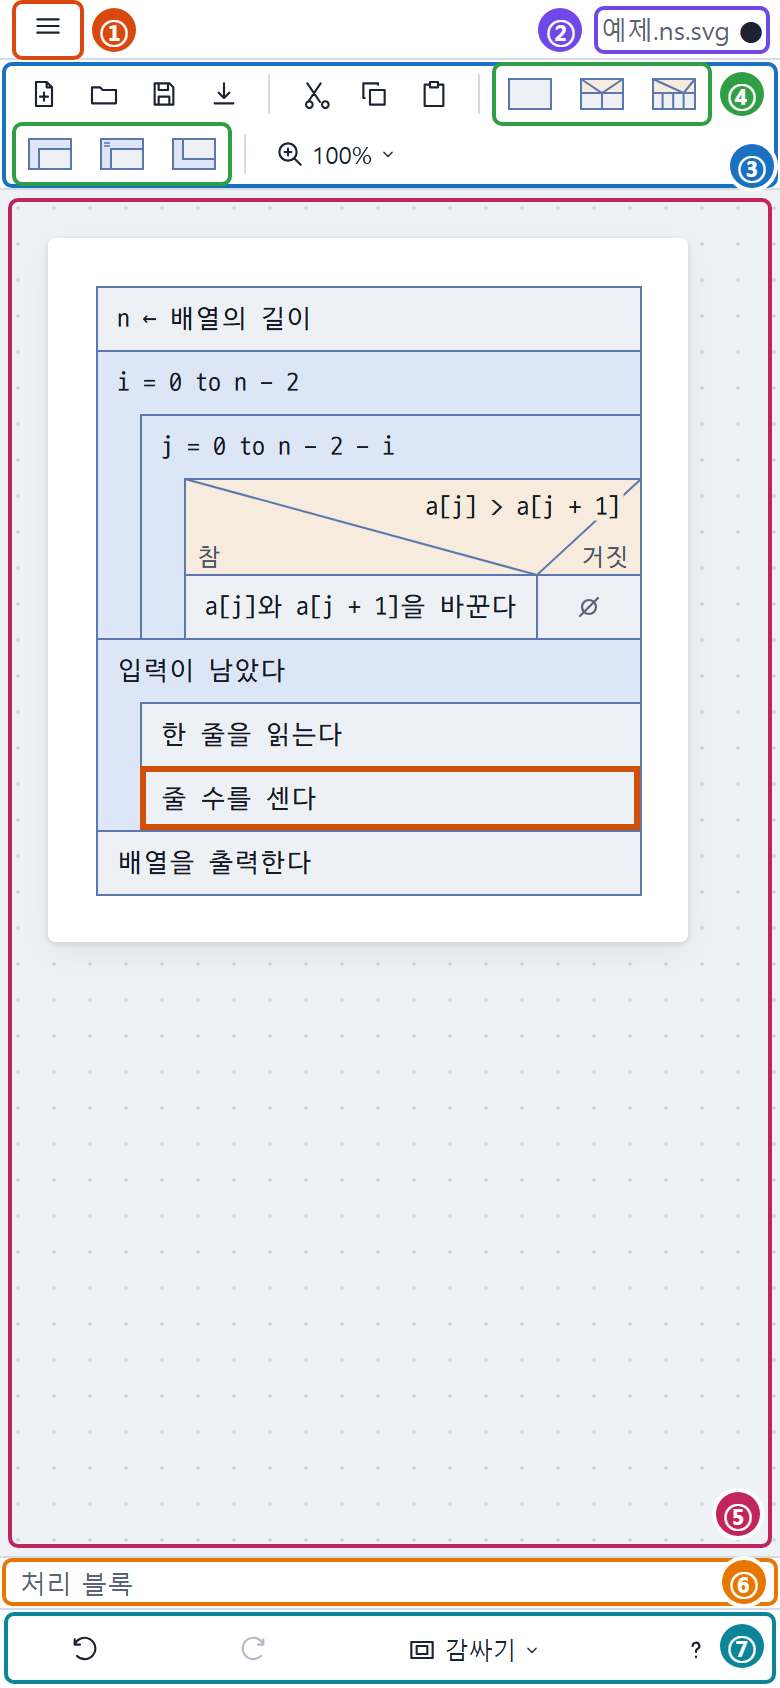
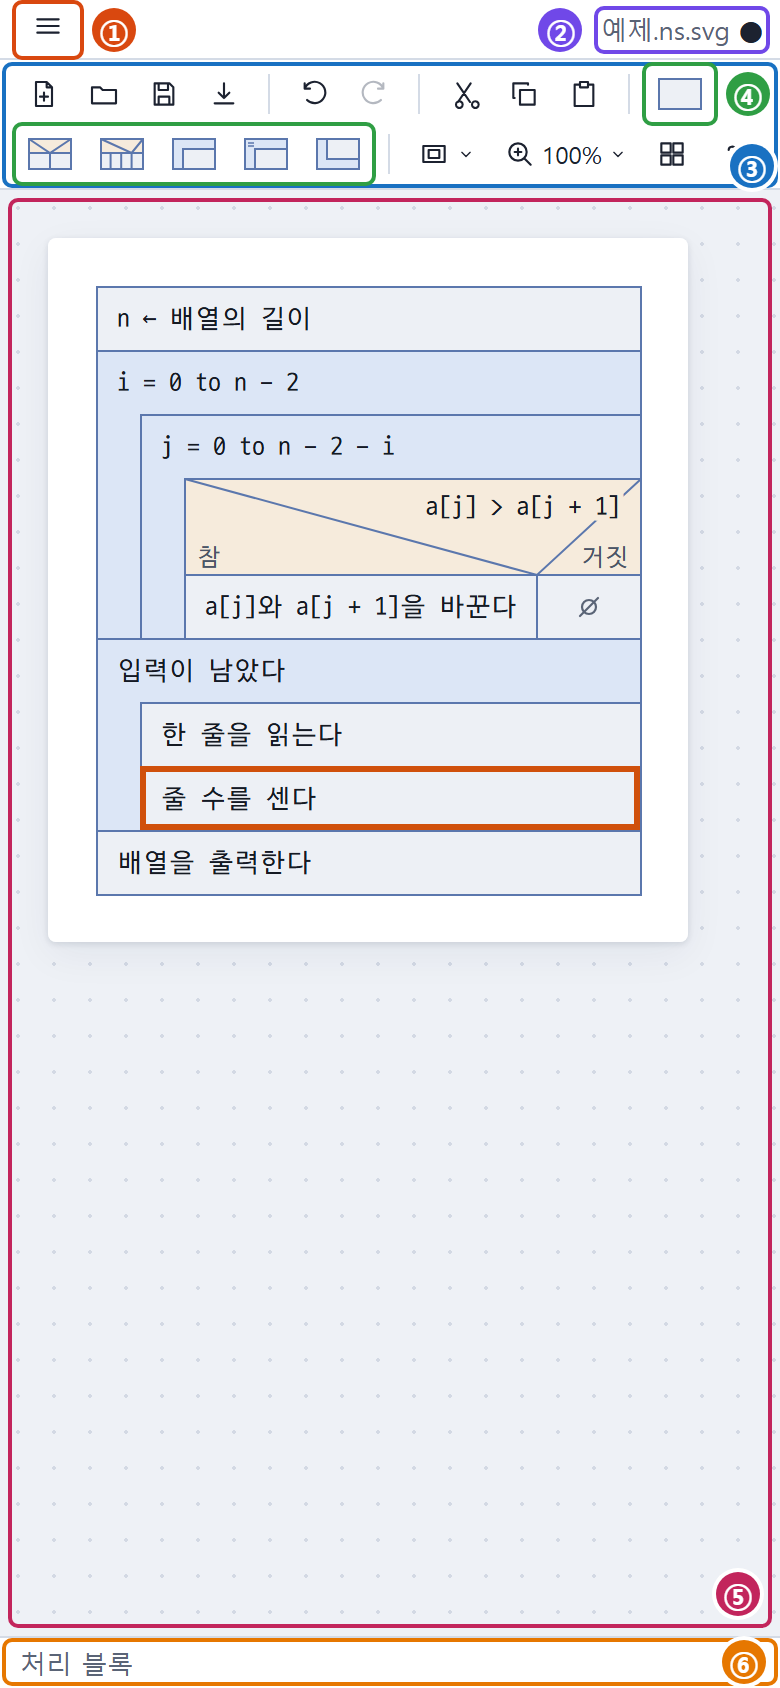
editor: 좁은 화면의 아래 줄을 없애고 되돌리기 · 다시 · 감싸기 · 도움말을 툴바에(UX MB2), 화면 배치의 휴대폰 그림을 다시 찍음

diff --git a/src/packages/editor/src/ui/toolbar.tsx b/src/packages/editor/src/ui/toolbar.tsx
@@ -1,6 +1,6 @@
 // The toolbar (03-editor 5.2, 06-web 7): the registry's toolbar commands in their groups, the six
-// block icons, then "감싸기 ▾", "확대 ▾" and "예제" (opens the examples modal). On narrow screens undo · redo · wrap move to the
-// bottom bar (UX MB1).
+// block icons, then "감싸기 ▾", "확대 ▾" and "예제" (opens the examples modal). Narrow screens show
+// the same buttons on more rows, with icons only, and a help button at the end (UX MB2).
 
 import type { PointerEvent as ReactPointerEvent, ReactElement, RefObject } from 'react';
 import { useEffect, useRef, useState } from 'react';
@@ -14,9 +14,6 @@ import type { ToolbarBlockKind } from './engine-api';
 import { BlockIcon, hasStrokeIcon, StrokeIcon } from './icons';
 import { displayKey, menuKey } from './keys';
 import { useChrome, useChromeState, useCommands } from './use-engine';
-
-/** Icons that go to the bottom bar on narrow screens (06-web 7 "좁은 화면"). */
-const bottomBarIcons: ReadonlySet<string> = new Set(['edit.undo', 'edit.redo']);
 
 /** How far the pointer must move before a press on a block icon becomes a drag (03-editor 3.2). */
 const dragThreshold = 4;
@@ -225,7 +222,7 @@ function ExamplesButton({
     <button
       type="button"
       // On narrow screens too, with the icon only (BUG-04, 05-screen-layout).
-      className="ans-tool ans-examples-tool"
+      className="ans-tool ans-icon-on-narrow"
       aria-label={label}
       aria-haspopup="dialog"
       title={command.title}
@@ -251,15 +248,15 @@ export function Toolbar(): ReactElement {
     )
     .sort(byPlace);
   const zoom = zoomCommandIds.flatMap((id) => commands.filter((command) => command.id === id));
+  // Narrow screens have no Help menu in sight, so the shortcut list gets a button (UX MB2).
+  const help = commands.find((command) => command.id === uiCommandIds.shortcuts);
 
   return (
     <div className="ans-toolbar" role="toolbar" aria-label={text('toolbar.label')}>
       {groupRuns(placed).map((run, index) => {
-        const isBottomBarGroup = run.every(({ icon }) => bottomBarIcons.has(icon));
-        const className = isBottomBarGroup ? 'ans-wide-only' : undefined;
         return (
           <span key={run[0]?.id ?? index} style={{ display: 'contents' }}>
-            {index > 0 && <span className={`ans-sep ${className ?? ''}`} aria-hidden="true" />}
+            {index > 0 && <span className="ans-sep" aria-hidden="true" />}
             {run.map(({ icon, command }) => {
               const kind = blockKindOfIcon(icon);
               if (kind !== null) {
@@ -267,13 +264,7 @@ export function Toolbar(): ReactElement {
                   <BlockButton key={command.id} kind={kind} command={command} commands={commands} />
                 );
               }
-              return (
-                <CommandButton
-                  key={command.id}
-                  command={command}
-                  className={bottomBarIcons.has(icon) ? 'ans-tool ans-wide-only' : 'ans-tool'}
-                />
-              );
+              return <CommandButton key={command.id} command={command} />;
             })}
           </span>
         );
@@ -283,7 +274,7 @@ export function Toolbar(): ReactElement {
         icon="wrap"
         label={text('toolbar.wrap')}
         commands={wrapCommands(commands)}
-        className="ans-wide-only"
+        className="ans-icon-on-narrow"
       />
       <DropdownButton
         icon="zoom"
@@ -292,26 +283,11 @@ export function Toolbar(): ReactElement {
         commands={zoom}
       />
       <ExamplesButton command={commands.find((command) => command.id === uiCommandIds.examples)} />
-    </div>
-  );
-}
-
-/** The bar at the bottom on narrow screens: undo · redo · wrap · help (06-web 7, UX MB1). */
-export function BottomBar(): ReactElement {
-  const { text } = useChrome();
-  const commands = useCommands();
-  const undoRedo = commands
-    .filter((command) => command.toolbar && bottomBarIcons.has(command.toolbar.icon))
-    .sort((a, b) => (a.toolbar?.order ?? 0) - (b.toolbar?.order ?? 0));
-  const help = commands.find((command) => command.id === uiCommandIds.shortcuts);
-  return (
-    <div className="ans-bottombar">
-      {undoRedo.map((command) => (
-        <CommandButton key={command.id} command={command} />
-      ))}
-      <DropdownButton icon="wrap" label={text('toolbar.wrap')} commands={wrapCommands(commands)} />
       {help && (
-        <CommandButton command={{ ...help, toolbar: { group: 0, order: 0, icon: 'help' } }} />
+        <CommandButton
+          command={{ ...help, toolbar: { group: 0, order: 0, icon: 'help' } }}
+          className="ans-tool ans-narrow-only"
+        />
       )}
     </div>
   );

diff --git a/src/packages/editor/src/ui/styles.ts b/src/packages/editor/src/ui/styles.ts
@@ -109,7 +109,7 @@ export const chromeCss = `
 .ans-mode { margin-left: auto; color: var(--ui-accent); }
 .ans-mode + .ans-mode { margin-left: 0; }
 
-.ans-bottombar { display: none; }
+.ans-narrow-only { display: none; }
 
 .ans-keyhint {
   position: absolute; left: 12px; right: 12px; bottom: 34px; z-index: 15;
@@ -211,20 +211,14 @@ export const chromeCss = `
   border-color: var(--ui-accent); background: var(--ui-accent); color: var(--ui-panel);
 }
 
-/* Narrow screens (06-web 7, UX MB1): the menus fold into one button, undo · redo · wrap ·
-   help move to a bar at the bottom, the block icons stay. */
+/* Narrow screens (06-web 7, UX MB1 · MB2): the menus fold into one button, the toolbar keeps all
+   its buttons on more rows (labels hidden where an icon says it) and gains a help button. */
 @media (max-width: 860px) {
   .ans-menus { display: none; }
   .ans-hamburger { display: block; }
   .ans-brand { display: none; }
   .ans-toolbar { flex-wrap: wrap; }
-  .ans-toolbar .ans-wide-only { display: none; }
-  .ans-examples-tool .ans-tool-label { display: none; }
-  .ans-bottombar {
-    display: flex; justify-content: space-around; align-items: center; height: 40px; flex: none;
-    background: var(--ui-panel); border-top: 1px solid var(--ui-line);
-  }
-  .ans-bottombar .ans-dropdown { top: auto; bottom: 100%; margin: 0 0 2px; }
-  .ans-keyhint { bottom: 72px; }
+  .ans-toolbar .ans-narrow-only { display: inline-flex; }
+  .ans-icon-on-narrow .ans-tool-label { display: none; }
 }
 `;

diff --git a/src/apps/web/e2e/mobile.spec.ts b/src/apps/web/e2e/mobile.spec.ts
@@ -70,7 +70,6 @@ test('QA-20: a first visit on a phone opens an example with a tap', async ({ pag
   await modal.locator('[data-example="merge-sort"]').tap();
   await expect(modal).toHaveCount(0);
   await expect(page).toHaveTitle('Merge sort.ns.svg – AriadneNSD');
-  await expect(page.locator('.ans-bottombar')).toBeVisible();
 });
 
 test('QA-20: on a phone a block is inserted from the toolbar and selected with a tap', async ({
@@ -103,4 +102,18 @@ test('BUG-04 · QA-20: on a phone the toolbar shows "Examples", and a tap opens 
   await button.tap();
   const modal = page.locator('.ans-backdrop[data-kind="examples"] .ans-modal');
   await expect(modal.locator('h2')).toHaveText('Open an Example');
+});
+
+test('QA-20: on a phone undo, redo, wrap and help are in the toolbar, with no bar at the bottom', async ({
+  page,
+}) => {
+  await skipWelcome(page);
+  await page.goto('./');
+  await expect(page.locator('html')).toHaveAttribute('data-ready', 'true');
+  const toolbar = page.getByRole('toolbar');
+  for (const id of ['edit.undo', 'edit.redo', 'help.shortcuts']) {
+    await expect(toolbar.locator(`[data-command="${id}"]`)).toBeVisible();
+  }
+  await expect(toolbar.locator('button[title="Wrap"]')).toBeVisible();
+  await expect(page.locator('.ans-bottombar')).toHaveCount(0);
 });

diff --git a/src/packages/editor/src/ui/editor-app.tsx b/src/packages/editor/src/ui/editor-app.tsx
@@ -37,7 +37,7 @@ import {
 } from './modals';
 import { StatusBar } from './status-bar';
 import { chromeCss } from './styles';
-import { BottomBar, Toolbar } from './toolbar';
+import { Toolbar } from './toolbar';
 import type { Chrome } from './use-engine';
 import { ChromeContext, textOf, useChromeState } from './use-engine';
 
@@ -341,7 +341,6 @@ export function EditorApp({
         <div className="ans-canvas-slot" ref={slotRef} />
         <KeyHint />
         <StatusBar />
-        <BottomBar />
         {contextMenu && (
           <ContextMenu key={contextMenu.key} request={contextMenu} onClose={closeContextMenu} />
         )}

diff --git a/docs/04-design/08-test-list.md b/docs/04-design/08-test-list.md
@@ -23,7 +23,7 @@ status: 생성됨
 
 | 유형 | 파일 | 테스트 |
 | --- | --- | --- |
-| E2E | 6 | 45 |
+| E2E | 6 | 46 |
 | 통합 | 8 | 113 |
 | 단위 | 40 | 343 |
 | 성능 | 1 | 3 |
@@ -77,6 +77,7 @@ status: 생성됨
 | [[03-quality-attribute-scenarios#1. 목록\|QA-18]] | on a slow phone the editor shows within 3 s and the block font within 5 s | — | Playwright | E2E | `apps/web/e2e/mobile.spec.ts` |
 | [[03-quality-attribute-scenarios#1. 목록\|QA-20]] | a first visit on a phone opens an example with a tap | — | Playwright | E2E | `apps/web/e2e/mobile.spec.ts` |
 | [[03-quality-attribute-scenarios#1. 목록\|QA-20]] | on a phone a block is inserted from the toolbar and selected with a tap | — | Playwright | E2E | `apps/web/e2e/mobile.spec.ts` |
+| [[03-quality-attribute-scenarios#1. 목록\|QA-20]] | on a phone undo, redo, wrap and help are in the toolbar, with no bar at the bottom | — | Playwright | E2E | `apps/web/e2e/mobile.spec.ts` |
 | [[01-requirements#^r-all\|R-ALL-03]] | a new document has one empty block, selected, and is not dirty | — | Vitest + happy-dom | 통합 | `packages/editor/src/create-editor.test.ts` |
 | [[01-requirements#^r-all\|R-ALL-03]] | a new document has one diagram holding one empty block | — | Vitest | 단위 | `packages/core/src/commands/new-document.test.ts` |
 | [[01-requirements#^r-all\|R-ALL-03]] | a new doc starts with nothing folded and the result symbol ← | — | Vitest | 단위 | `packages/core/src/commands/new-document.test.ts` |
@@ -328,7 +329,7 @@ status: 생성됨
 | `apps/web/e2e/boot.spec.ts` | The start of the page (R-NFR-10, QA-19; inbox 2026-11-01 | [[01-requirements#^r-nfr\|R-NFR-10]], [[03-quality-attribute-scenarios#1. 목록\|QA-19]] | Playwright | E2E | 2 |
 | `apps/web/e2e/examples.spec.ts` | The examples (R-EDIT-25, 05-screen-layout "예제", UX EX1 ~ EX3) | [[01-requirements#^r-edit\|R-EDIT-25]], [[ux-decisions\|UX EX1]] | Playwright | E2E | 6 |
 | `apps/web/e2e/files.spec.ts` | Browser flows of the web shell (06-web 1, 2) | — | Playwright | E2E | 6 |
-| `apps/web/e2e/mobile.spec.ts` | The web app on a phone (R-NFR-08 · R-NFR-09, QA-18 · QA-20; QA-19 is in boot.spec.ts) | [[01-requirements#^r-nfr\|R-NFR-08]], [[01-requirements#^r-nfr\|R-NFR-09]], [[03-quality-attribute-scenarios#1. 목록\|QA-18]], [[03-quality-attribute-scenarios#1. 목록\|QA-20]], [[03-quality-attribute-scenarios#1. 목록\|QA-19]] | Playwright | E2E | 4 |
+| `apps/web/e2e/mobile.spec.ts` | The web app on a phone (R-NFR-08 · R-NFR-09, QA-18 · QA-20; QA-19 is in boot.spec.ts) | [[01-requirements#^r-nfr\|R-NFR-08]], [[01-requirements#^r-nfr\|R-NFR-09]], [[03-quality-attribute-scenarios#1. 목록\|QA-18]], [[03-quality-attribute-scenarios#1. 목록\|QA-20]], [[03-quality-attribute-scenarios#1. 목록\|QA-19]] | Playwright | E2E | 5 |
 | `apps/web/e2e/smoke.spec.ts` |  | — | Playwright | E2E | 1 |
 | `apps/web/src/files/web-document-store.test.ts` | web document store | — | Vitest | 통합 | 5 |
 | `apps/web/src/shell/web-shell.test.ts` | web shell | — | Vitest | 통합 | 8 |

diff --git a/docs/02-ux-design/05-screen-layout.md b/docs/02-ux-design/05-screen-layout.md
@@ -22,8 +22,7 @@ updated: 2026-11-01
 - ③ **툴바 한 줄:** 파일(새로 · 열기 · 저장 · 내보내기), 되돌리기 · 다시, 잘라내기 · 복사 · 붙여넣기, ④ **블록 아이콘 여섯**(처리 · If · Case · While · For · Do-While), 감싸기 · 확대 · 예제. 창의 폭이 모자라면 다음 줄로 접힙니다(가로 스크롤을 두지 않습니다. 드롭다운이 툴바 밖으로 펼쳐져야 해서). 블록 아이콘은 블록의 모양과 색을 그대로 줄인 그림입니다. 쓰는 법 → [[02-interaction-rules#블록 아이콘으로 삽입 · 감싸기]]
 - ⑤ **캔버스**가 나머지를 모두 씁니다. 노트북 브라우저(1366 × 657)에서 다이어그램에 남는 칸은 1366 × 593(세로 90%)입니다.
 - ⑥ **상태 표시줄**에는 선택한 것과 알림만 둡니다. 알림은 이곳 하나에 모읍니다(`editor`의 알림도 셸의 알림도 `notify`로 → [[03-editor#6. 셸과의 연결]]). `info` 알림은 6초 뒤 사라지고, `warn` 알림(주황 글자)은 다음 알림이 오거나 `✕`로 닫을 때까지 남습니다. If ↔ Case처럼 버튼이 달린 물음도 여기에 뜹니다.
-- **좁은 화면**(폭 860px 이하, 휴대폰 그림): ① 메뉴는 ☰ 하나로 접고, ③ 툴바는 두 줄로 접혀도 ④ 블록 아이콘은 남깁니다. 되돌리기 · 다시 · 감싸기 · 도움말은 화면 아래 줄로 내립니다 → [[ux-decisions#MB1. 좁은 화면|MB1]]
-- ⑦ **아래 줄**(좁은 화면만): 되돌리기 · 다시 · 감싸기 ▾ · 도움말(단축키 목록)
+- **좁은 화면**(폭 860px 이하, 휴대폰 그림): ① 메뉴는 ☰ 하나로 접고, ③ 툴바는 노트북과 같은 버튼을 같은 순서로 두되 여러 줄로 접습니다. 감싸기와 예제는 글자 없이 아이콘만 두고, 메뉴가 접혀 보이지 않는 도움말 대신 툴바 끝에 도움말(단축키 목록) 버튼을 더합니다. 화면 아래에는 ⑥ 상태 표시줄만 있습니다 → [[ux-decisions#MB1. 좁은 화면|MB1]], [[ux-decisions#MB2. 좁은 화면의 툴바|MB2]]
 
 - 메뉴 바 · 툴바 · 컨텍스트 메뉴 · 커맨드 팔레트는 모두 명령 목록 하나에서 나옵니다 → [[0033-command-list-for-shells|ADR-0033]]
 - **최근 파일**([[01-requirements#^r-exp|R-EXP-04]])은 파일 메뉴의 "최근 파일 ▸"에 둡니다.

diff --git a/atelier/sessions/2026-11-01-04-examples-button-android-load.md b/atelier/sessions/2026-11-01-04-examples-button-android-load.md
@@ -68,6 +68,15 @@ date: 2026-11-01
 - 3: 메인테이너가 고른 안(Claude의 추천): 근거 칸 + 자동 생성. 칸은 ID · 목적/내용 · 근거 · 방법 · 유형 · 자리, 유형은 단위 · 통합 · E2E · 성능(수동은 점검표). [[08-test-list|테스트 목록]]을 `src/scripts/test-list.mjs`가 테스트 이름과 파일 첫 주석에서 만들고, `pnpm check`가 목록이 낡으면 실패한다. 끝에 "테스트가 없는 ID"(인수 테스트나 검사가 맡은 것은 그 길을 적음). 남은 빈 곳 QA-05 · 08 · 11 · 13 · 16은 backlog로
 - 테스트 아키텍처: [[07-testing#1. 테스트 아키텍처]]를 새로 넣음(유형마다 확인하는 것 · 진짜와 가짜 · 실행 환경, 유형과 구성 요소의 그림, 테스트 더블, 테스트 이름의 ID, 결함과 회귀 테스트, 어느 유형으로 쓸지). 뒤의 절 번호가 하나씩 밀려 링크와 코드 주석을 고침(승인 ADR은 링크 주소만)
 
+## S26에서 뜸, 휴대폰의 툴바
+
+메인테이너: "S26에서 MVP가 뜹니다. 근데 S26에서 툴바에 예제 버튼이 안 보이네요?" 그리고 "그리고 감싸기가 화면 아래에 있어요. 이럴 필요가 있나요?"
+
+- BUG-03은 S26에서 확인됨 → [[defects|결함 기록]]
+- BUG-04: 예제 버튼에 "넓은 화면에서만" 클래스가 남아 있었다(드롭다운이던 때의 설정). 좁은 화면에서는 아이콘만 보이게. 회귀 테스트 `mobile.spec.ts`(고치기 전 실패를 확인)
+- 감싸기: 아래 줄은 툴바를 두 줄로 지키려는 Claude의 설계였다. MVP를 폰 크기로 띄워 세 가지를 찍어 견주고(`journal/assets/2026-11-01-narrow-wrap-options.png`), 메인테이너가 3 "아래 줄 없앰"을 고름(Claude의 추천) → [[ux-decisions#MB2. 좁은 화면의 툴바|MB2]]. 아래 줄을 없애고 되돌리기 · 다시 · 감싸기를 툴바에, 도움말 버튼은 좁은 화면에서만 툴바 끝에. [[05-screen-layout]]의 휴대폰 그림을 다시 찍음(찍는 스크립트가 첫 방문 모달에 가려 멈추던 것도 고침)
+- 남은 흠: 툴바가 접힐 때 줄 맨 앞에 구분선이 남는다(backlog)
+
 ## 다음 할 것
 
 - 메인테이너가 S26에서 다시 열어 보기. 뜨지 않으면 시작 화면의 글을 찍어 받기

diff --git a/atelier/defects.md b/atelier/defects.md
@@ -18,5 +18,5 @@ updated: 2026-11-01
 | --- | --- | --- | --- | --- | --- | --- |
 | BUG-01 | 2026-11-01 | 브라우저 화면보다 큰 다이어그램에 스크롤바가 나오지 않음(메인테이너) | 화면 틀의 자리와 캔버스가 같은 클래스 `ans-canvas`를 써서 틀의 `overflow: hidden`이 캔버스에도 먹음 | [[2026-11-01-03-mvp-scroll-dropdown]] | E2E `examples.spec.ts` | 고침 |
 | BUG-02 | 2026-11-01 | 툴바의 "예제 ▾" 등 드롭다운을 눌러도 아무것도 보이지 않음(메인테이너) | 툴바의 `overflow-x: auto`가 세로도 `auto`로 만들어 드롭다운이 툴바 안에 갇힘 | [[2026-11-01-03-mvp-scroll-dropdown]] | E2E `examples.spec.ts` | 고침 |
-| BUG-03 | 2026-11-01 | Galaxy S26의 Chrome에서 한참을 기다려도 MVP 화면이 뜨지 않음(메인테이너) | 원인 후보: 화면을 그리기 전에 IndexedDB를 여는데 시간 제한이 없음. 실제 폰에서는 아직 확인하지 못함 | [[2026-11-01-04-examples-button-android-load]] | E2E `boot.spec.ts` | 고침(폰에서 확인 전) |
+| BUG-03 | 2026-11-01 | Galaxy S26의 Chrome에서 한참을 기다려도 MVP 화면이 뜨지 않음(메인테이너) | 화면을 그리기 전에 IndexedDB를 여는데 시간 제한이 없음(원인 후보였고, 3초 제한을 넣은 뒤 S26에서 뜸) | [[2026-11-01-04-examples-button-android-load]] | E2E `boot.spec.ts` | 고침(S26에서 확인함) |
 | BUG-04 | 2026-11-01 | S26의 툴바에 "예제" 버튼이 보이지 않음(메인테이너) | 툴바의 예제를 드롭다운에서 버튼으로 바꿀 때(EX4) "넓은 화면에서만" 클래스를 그대로 둠. E2E가 노트북 크기로만 봐서 못 잡음 | [[2026-11-01-04-examples-button-android-load]] | E2E `mobile.spec.ts` | 고침 |

diff --git a/docs/02-ux-design/04-visual-design.md b/docs/02-ux-design/04-visual-design.md
@@ -480,7 +480,6 @@ flowchart LR
 
 - `⋯` `←` 기호가 문자로 들어갑니다(2장: 도형으로 그릴 것).
 - 호버, 드래그 앤 드롭(드롭 위치, 블록 위에 드롭, 드롭할 수 없는 곳), 받아들일 수 없는 입력의 모습이 없습니다(7장). 툴바의 블록 아이콘은 누르기 · `Shift`+클릭 · `Ctrl`+클릭만 되고 드래그할 수 없습니다.
-- 좁은 화면의 아래 줄(되돌리기 · 다시 · 감싸기 · 도움말)이 없습니다([[05-screen-layout|화면 배치]]).
 - 펴 보기의 흰 줄(<span class="color-chip" style="display:inline-block;width:0.9em;height:0.9em;background:#ffffff;border:1px solid #8888;vertical-align:-0.1em"></span> `#ffffff`)과 배경이 토큰이 아니라 코드에 적힌 값입니다.
 - 글꼴은 IBM Plex를 웹 글꼴로 불러오며, 번들하지 않습니다. 명세의 기본 블록 글꼴은 D2Coding입니다.
 - 테마를 선택할 수 없습니다. 늘 밝은 기본 테마입니다.

diff --git a/docs/01-requirements/03-quality-attribute-scenarios.md b/docs/01-requirements/03-quality-attribute-scenarios.md
@@ -327,7 +327,7 @@ updated: 2026-11-01
 | 자극 | 예제를 열고, 블록을 넣고, 블록을 선택한다 |
 | 환경 | Android의 Chrome, 세로 화면(폭 약 400px), 터치 |
 | 대상 | 웹의 좁은 화면 배치와 터치 입력 |
-| 응답 | 좁은 화면 배치(아래 막대)로 보이고, 탭으로 끝낸다 |
+| 응답 | 좁은 화면 배치(☰ 메뉴, 여러 줄의 툴바)로 보이고, 탭으로 끝낸다 |
 | 응답 측정 | 위 흐름이 **탭만으로 100% 통과**(문자 입력은 화면 키보드) |
 
 - **아키텍처:** 좁은 화면 배치 → [[05-screen-layout|화면 배치]], [[ux-decisions#MB1. 좁은 화면|MB1]]
